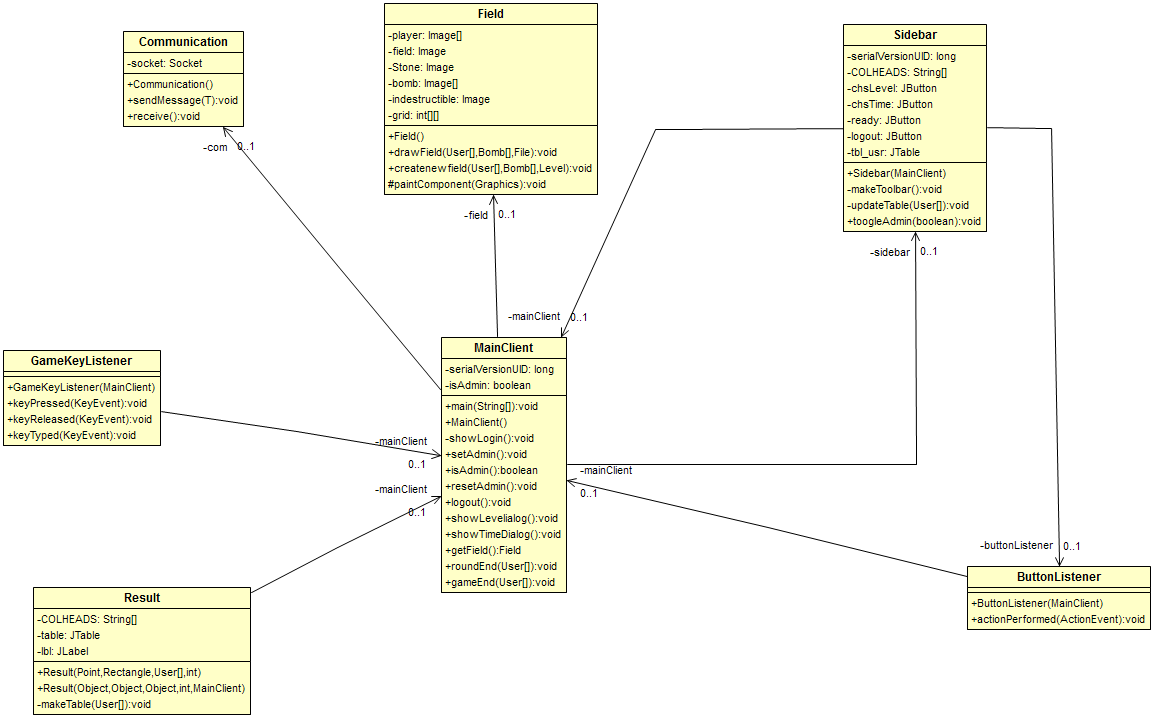
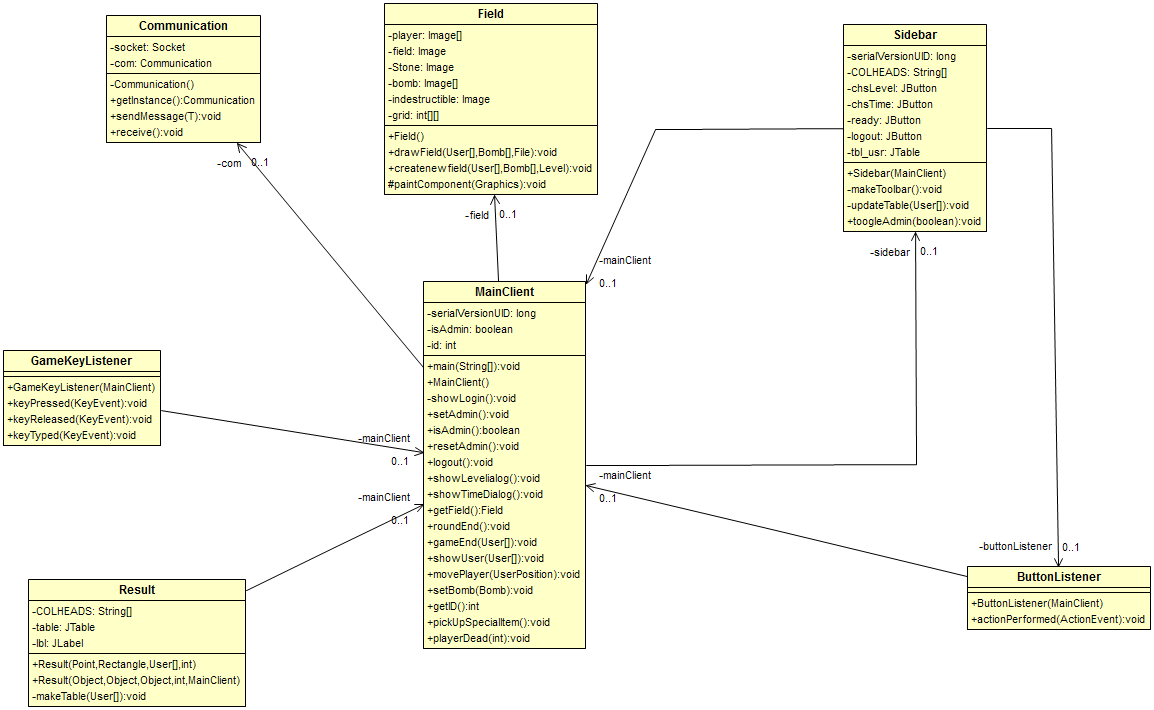
Added some more method stubs

diff --git a/src/hrw/swenpr/bomberman/client/MainClient.java b/src/hrw/swenpr/bomberman/client/MainClient.java
@@ -3,10 +3,13 @@ package hrw.swenpr.bomberman.client;
 
 import java.awt.BorderLayout;
 import java.awt.Container;
+import java.awt.Point;
 
 import hrw.swenpr.bomberman.client.listener.GameKeyListener;
+import hrw.swenpr.bomberman.common.rfc.Bomb;
 import hrw.swenpr.bomberman.common.rfc.Login;
 import hrw.swenpr.bomberman.common.rfc.User;
+import hrw.swenpr.bomberman.common.rfc.UserPosition;
 import hrw.swenpr.bomberman.common.rfc.User.UserColor;
 
 import javax.swing.JButton;
@@ -31,6 +34,7 @@ public class MainClient extends JFrame {
 	private Field field;
 	
 	private boolean isAdmin;
+	private int id;
 
 	/**
 	 * Starting function.
@@ -59,7 +63,7 @@ public class MainClient extends JFrame {
 		
 		this.addKeyListener(new GameKeyListener(this));
 		
-		com = new Communication();
+		com = Communication.getInstance();
 		sidebar = new Sidebar(this);
 		field = new Field();
 		
@@ -156,9 +160,9 @@ public class MainClient extends JFrame {
 	 * called when a round ends
 	 * @param usr array with data of each user
 	 */
-	public void roundEnd(User usr[])
+	public void roundEnd()
 	{
-		new Result(null, null, null, 0, this);
+		
 	
 	}
 	
@@ -168,7 +172,36 @@ public class MainClient extends JFrame {
 	 */
 	public void gameEnd(User usr[])
 	{
+		new Result(null, null, null, 0, this);
+	}
+	
+	public void showUser(User usr[])
+	{
 		
 	}
+	
+	public void movePlayer(UserPosition usrPos)
+	{
 		
+	}
+	
+	public void setBomb(Bomb bomb)
+	{
+		
+	}
+	
+	public int getID()
+	{
+		return id;
+	}
+	
+	public void pickUpSpecialItem()
+	{
+		
+	}
+	
+	public void playerDead(int id)
+	{
+		
+	}
 }

diff --git a/src/hrw/swenpr/bomberman/client/Communication.java b/src/hrw/swenpr/bomberman/client/Communication.java
@@ -21,10 +21,20 @@ public class Communication
 {
 	//Socket for communication with Server
 	private Socket socket;
+	private static Communication com;
 	
-	public Communication()
+	
+	private Communication()
 	{
 		this.socket = ClientConnection.getSocket("localhost", 6969);
+	}
+	
+	public static Communication getInstance()
+	{
+		if(Communication.com == null)
+			Communication.com = new Communication();
+		
+		return com;
 	}
 	
 	/**
